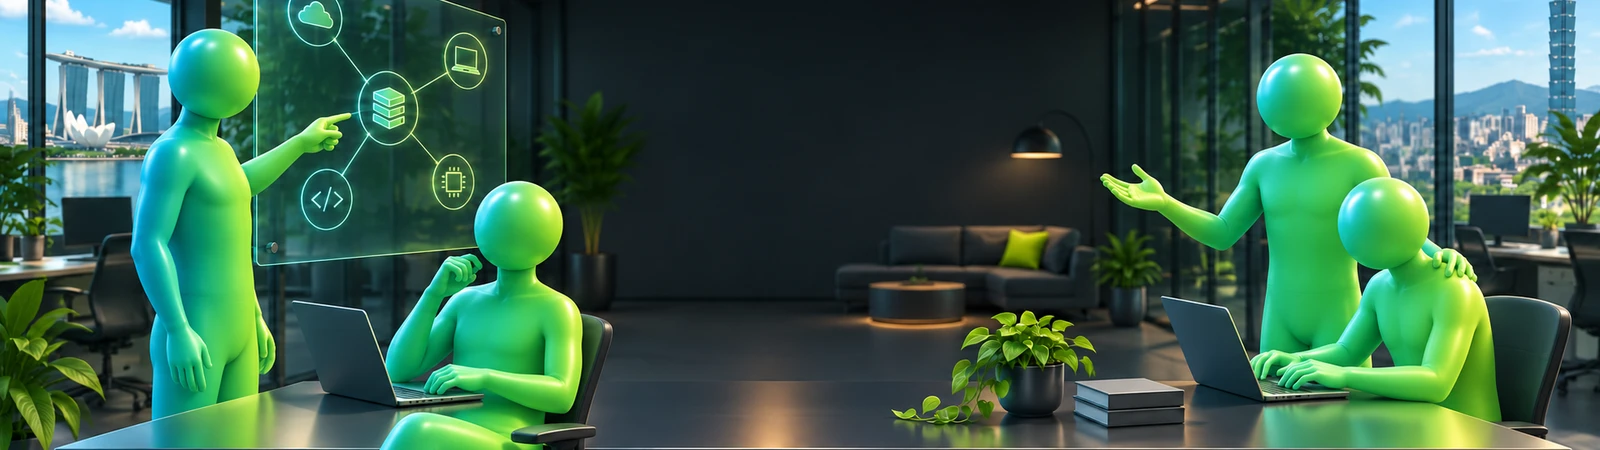
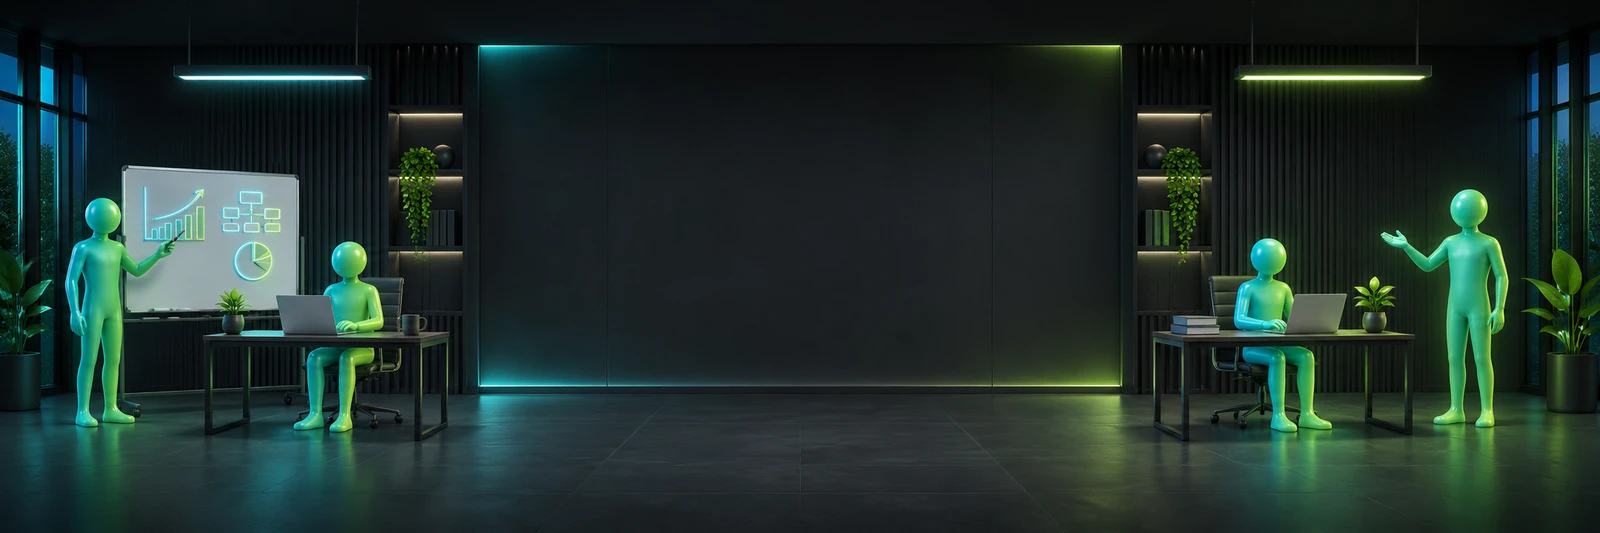
Redesign careers panorama with complete uncropped characters

diff --git a/index.html b/index.html
@@ -1724,21 +1724,22 @@ body[data-v="e"] .site-top-btn { background: #0d1119; color: #3ddc97; border: 1p
 
 /* D careers: compact panoramic team banner with centered copy. */
 .vd-careers > .wrap > .vd-head2 { text-align: center; margin-inline: auto; }
-.vd-careers-banner { position: relative; isolation: isolate; overflow: hidden; border: 1px solid var(--d-line); border-radius: 16px; height: clamp(240px, 22vw, 280px); display: grid; place-items: center; padding: 24px; background: #0b1418; }
-.vd-careers-image { position: absolute; inset: 0; width: 100%; height: 100%; object-fit: cover; }
+.vd-careers-banner { position: relative; isolation: isolate; overflow: hidden; border: 1px solid var(--d-line); border-radius: 16px; height: clamp(240px, 22vw, 280px); display: grid; place-items: center; padding: 24px; background: #080e10; }
+.vd-careers-image { position: absolute; inset: 0; width: 100%; height: 100%; object-fit: contain; }
 .vd-careers-banner::after { content: ""; position: absolute; inset: 0; background: linear-gradient(90deg, rgba(0,0,0,.15), rgba(0,0,0,.55) 38%, rgba(0,0,0,.55) 62%, rgba(0,0,0,.15)); }
-.vd-careers-copy { position: relative; z-index: 1; text-align: center; max-width: 100%; }
-.vd-careers-copy h3 { margin: 0 0 8px; color: #fff; font-size: clamp(27px, 3vw, 40px); font-weight: 700; line-height: 1.3; text-shadow: 0 2px 14px #000; }
+.vd-careers-copy { position: relative; z-index: 1; text-align: center; max-width: 48%; }
+.vd-careers-copy h3 { margin: 0 0 8px; color: #fff; font-size: clamp(25px, 2.6vw, 36px); font-weight: 700; line-height: 1.3; text-shadow: 0 2px 14px #000; }
 .vd-careers-copy p { color: #fff; margin: 0; font-size: clamp(15px, 1.5vw, 20px); line-height: 1.5; text-shadow: 0 2px 10px #000; }
 .vd-careers-cta { display: inline-flex; align-items: center; justify-content: center; margin-top: 24px; min-width: 160px; padding: 10px 28px; border: 1.5px solid #fff; border-radius: 999px; color: #fff; text-decoration: none; font-size: 18px; font-weight: 600; background: rgba(255,255,255,.06); transition: background .2s, color .2s; }
 .vd-careers-cta:hover { background: #fff; color: #0b1418; }
 .vd-careers-cta:focus-visible { outline: 3px solid var(--d-g1); outline-offset: 5px; }
 @media (min-width: 901px) and (max-width: 1100px) { .vd-nav a { padding-inline: 12px; font-size: 13px; } }
 @media (max-width: 600px) {
-  .vd-careers-banner { height: 240px; padding: 20px 16px; }
-  .vd-careers-image { object-position: 12% center; }
-  .vd-careers-banner::after { background: rgba(0,0,0,.55); }
-  .vd-careers-copy h3 { font-size: 27px; }
+  .vd-careers-banner { height: auto; padding: 0; display: flex; flex-direction: column; }
+  .vd-careers-image { position: relative; height: auto; object-fit: contain; }
+  .vd-careers-banner::after { display: none; }
+  .vd-careers-copy { max-width: 100%; padding: 18px 16px 22px; }
+  .vd-careers-copy h3 { font-size: 25px; }
   .vd-careers-cta { margin-top: 20px; padding-block: 9px; font-size: 16px; }
 }
 </style>
@@ -2405,11 +2406,11 @@ body[data-v="e"] .site-top-btn { background: #0d1119; color: #3ddc97; border: 1p
     <div class="wrap">
       <div class="vd-head2"><span class="vd-kicker">CAREERS</span><h2 class="vd-h2" id="vd-careers-title" data-en="Careers">人才招募</h2></div>
       <div class="vd-careers-banner">
-        <img class="vd-careers-image" src="assets/images/mootech_website_IMG143_careers-team-banner.webp" alt="" width="1600" height="450" loading="lazy" decoding="async">
+        <img class="vd-careers-image" src="assets/images/mootech_website_IMG143_careers-team-banner.webp?v=panorama2" alt="" width="1600" height="533" loading="lazy" decoding="async">
         <div class="vd-careers-copy">
           <h3 data-en="Give yourself an opportunity">給自己一個機會</h3>
           <p data-en="Unlock your potential. Shape your future.">解鎖自己，成就未來</p>
-          <a class="vd-careers-cta" data-recruit href="https://www.104.com.tw/company/1a2x6bjqez?jobsource=index_s_ac" target="_blank" rel="noopener" aria-label="查看 MOOTECH 職缺" data-en="Let's Go ↗">Let's Go ↗</a>
+          <a class="vd-careers-cta" data-recruit href="https://www.104.com.tw/company/1a2x6bjqez?jobsource=index_s_ac" target="_blank" rel="noopener" aria-label="查看 MOOTECH 職缺" data-en="Let's Go">Let's Go</a>
         </div>
       </div>
     </div>

diff --git a/docs/ASSETS.md b/docs/ASSETS.md
@@ -174,8 +174,9 @@
 | IMG141 | D 版專屬分享宣傳圖／zh社群連結預覽（runtime） | [assets/images/mootech_website_IMG141_design-d-social-zh.jpg](../assets/images/mootech_website_IMG141_design-d-social-zh.jpg) | 1200×630；不透明 | 標準前綴編號 |
 | SRCIMG024 | D 版專屬分享宣傳圖／en原稿（source） | [source/images/mootech_website_SRCIMG024_design-d-social-en.png](../source/images/mootech_website_SRCIMG024_design-d-social-en.png) | 1731×908；不透明 | 標準前綴編號 |
 | IMG142 | D 版專屬分享宣傳圖／en社群連結預覽（runtime） | [assets/images/mootech_website_IMG142_design-d-social-en.jpg](../assets/images/mootech_website_IMG142_design-d-social-en.jpg) | 1200×630；不透明 | 標準前綴編號 |
-| SRCIMG025 | D 版人才招募扁長 Banner：四位無五官漸層形象人的辦公室團隊情境原稿（source） | [source/images/mootech_website_SRCIMG025_careers-team-banner.png](../source/images/mootech_website_SRCIMG025_careers-team-banner.png) | 1983×793；不透明 | 標準前綴編號 |
-| IMG143 | D 版人才招募扁長 Banner：四位無五官漸層形象人的辦公室團隊情境背景圖（runtime） | [assets/images/mootech_website_IMG143_careers-team-banner.webp](../assets/images/mootech_website_IMG143_careers-team-banner.webp) | 1600×450；不透明 | 標準前綴編號 |
+| SRCIMG025 | D 版人才招募初版背景原稿（已由 SRCIMG026 全景重設稿取代，不再展示）（source） | [source/images/mootech_website_SRCIMG025_careers-team-banner.png](../source/images/mootech_website_SRCIMG025_careers-team-banner.png) | 1983×793；不透明 | 標準前綴編號 |
+| IMG143 | D 版人才招募扁長 Banner：四位完整入鏡無五官形象人原生全景圖，等比縮放且完整顯示（runtime） | [assets/images/mootech_website_IMG143_careers-team-banner.webp](../assets/images/mootech_website_IMG143_careers-team-banner.webp) | 1600×533；不透明 | 標準前綴編號 |
+| SRCIMG026 | D 版人才招募全新全景構圖：人物、四肢、桌椅完整入鏡，取代初版裁切構圖（source） | [source/images/mootech_website_SRCIMG026_careers-panoramic-team.png](../source/images/mootech_website_SRCIMG026_careers-panoramic-team.png) | 2172×724；不透明 | 標準前綴編號 |
 
 ## 背景音樂
 

diff --git a/HANDOFF.md b/HANDOFF.md
@@ -237,3 +237,10 @@ python3 tools/build-en.py
 - D 桌機／手機選單新增「人才招募／Careers」，使用頁內平滑捲動連到 Banner 區，並保留 104 外連於 Banner 按鈕。窄桌機縮整導覽間距與字體，手機點選後收合選單。
 - 驗證：素材 check 通過174項、素材清單／指紋／英文與 D 中英入口生成、inline JS 語法及 diff check 通過。Chromium 根頁／英文／D 中英入口 × 390／1024／1440 共12組：全球標題、招募位於願景前、選單捲動落點避開頁首、手機選單收合、Banner 圖片載入、240–280px 高度、CTA／英文無障礙名稱、無水平溢出／pageerror 均通過；已目視核對人物無五官及實際 Banner 截圖。
 - 已發布：runtime `c053977`；[Pages run 45565833339](https://github.com/mootech-asia/mootech_website/actions/runs/45565833339) 與素材 CI 成功。正式 D 中英入口 × 手機／桌機四組確認人才招募選單定位、扁長 Banner 高度與圖片載入、全球據點標題；IMG143 線上指紋相符。另已將本輪追加規格附入交付給使用者的 Word Figma 任務文件。
+
+### 2026-11-25：人才招募 Banner 全景重設，完整顯示不裁切
+
+- 使用者要求重新設計扁長 Banner，不能有裁切痕跡。已另製 SRCIMG026 原生全景構圖：四位形象人、頭部、手腳及桌椅完整入鏡，左右協作情境、中央文案留白。初版 SRCIMG025 保留歷史用途，不再使用為正式來源。
+- IMG143 更新為1600×533 WebP，由2172×724原稿僅等比縮放，未裁切邊界；桌機容器仍240–280px，以 object-fit:contain 完整顯示，兩側留深色空間。手機完整全景圖在上、文字按鈕在下，避免為滿版而裁掉人物。圖片引用加 panorama2 查詢避免舊快取。
+- 全球標題、人才招募選單定位及既有 Banner 文案／104 職缺連結保留。
+- 驗證：素材 check175項、英文與D中英入口生成、diff check通過。Chromium 中英文 ×390／768／1024／1440八組確認圖片載入、contain／手機原始長寬比、桌機高度不超過280px、無溢出與pageerror；另固定實際截圖位置後目視核對手機與桌機全景，四位人物完整可見無截斷。

diff --git a/docs/art/careers-banner.md b/docs/art/careers-banner.md
@@ -1,9 +1,10 @@
-# D 版人才招募 Banner
+# D 版人才招募 Banner（全景重設定稿）
 
-用途：#vd-careers，位於 MOOTECH 願景前，選單「人才招募」捲動至本區；CTA 連至既有 MOOTECH 104 公司頁。
+用途：#vd-careers，位於 MOOTECH 願景前；選單人才招募捲動至本區，CTA 連既有 MOOTECH 104 公司頁。
 
-- IMG143：1600×450，不透明 WebP、單幀、桌機／手機共用背景。
-- SRCIMG025：核准形象人辦公室團隊背景原稿，image generation 參考 SRCIMG015。四人皆光滑無五官球形頭、無耳鼻輪廓；青藍／薄荷／黃綠材質，不加機械關節。
-- 文案與按鈕由 HTML 疊字，支援中英：「給自己一個機會」「解鎖自己，成就未來」「Let's Go ↗」。
-- 桌機 Banner 高度 240–280px、手機 240px，object-fit cover 保留比例；置中裁切為1600×450，手機依裁切焦點顯示人物。原稿不加入部署包。
-- 動畫、音效、3D 模型與 UV：不適用。
+- IMG143：1600×533，不透明 WebP，靜態單幀。由 SRCIMG026 等比縮放，未裁切任何邊界。
+- SRCIMG026：2172×724 全新全景構圖，四名核准無五官漸層形象人完整入鏡，含頭、手、腳及桌椅。中央留給文案，兩側團隊辦公情境，image generation 參考 SRCIMG015。
+- 桌機容器240–280px高，使用 object-fit:contain 完整顯示背景，不用cover；手機完整圖片在上、文字及按鈕在下，避免裁切或小字擠壓。
+- HTML 疊字支援中英文：給自己一個機會／解鎖自己，成就未來／Let's Go。
+- SRCIMG025 初稿保留記錄，不再作為正式圖來源。
+- 動畫、音效、3D 模型及UV不適用。
